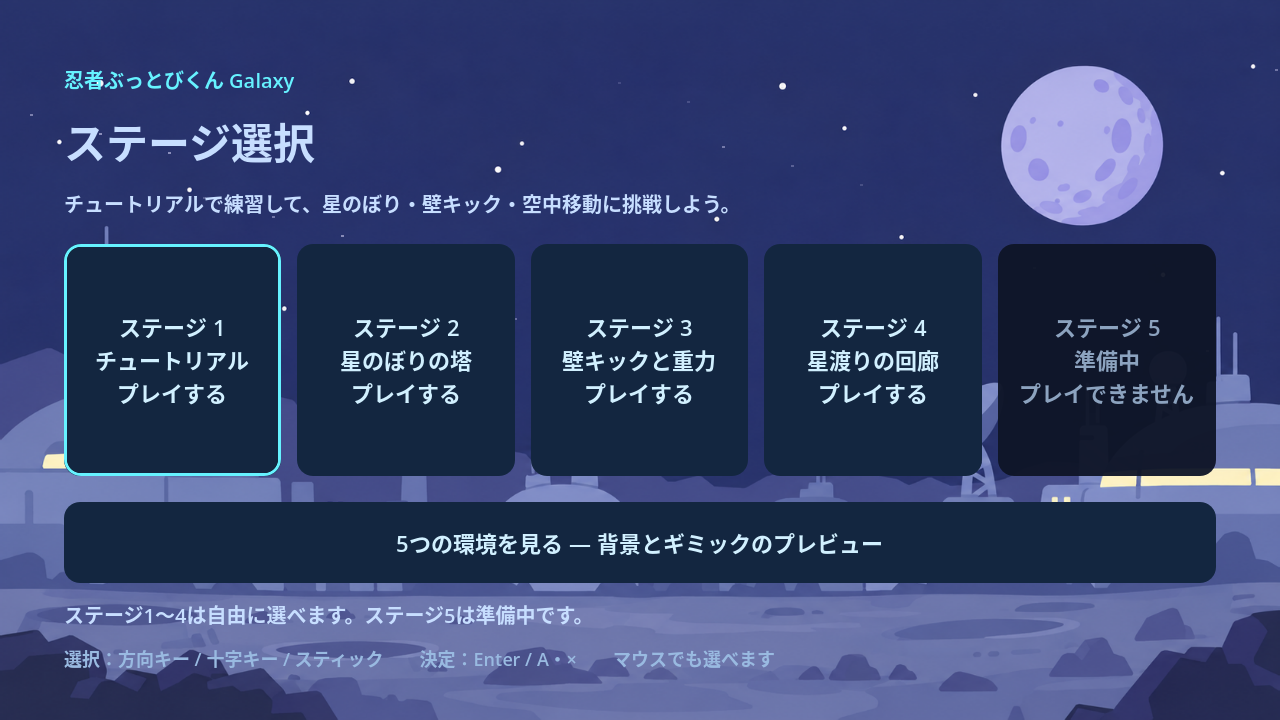
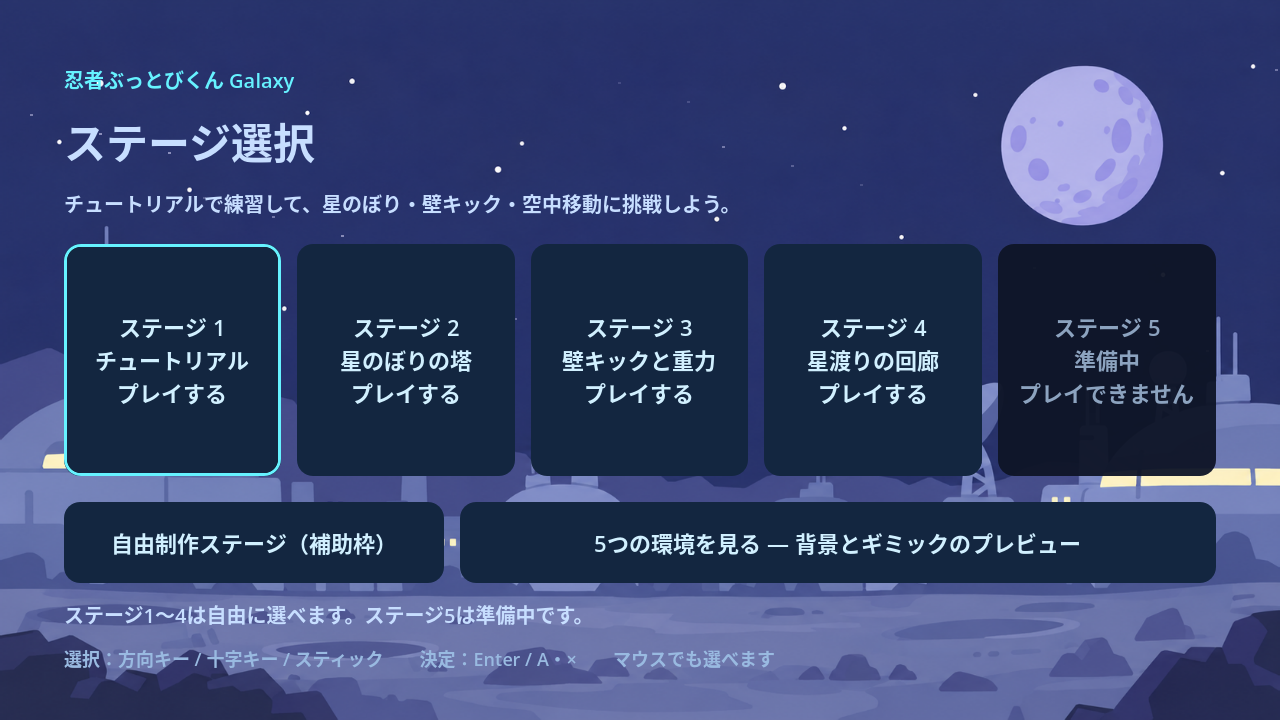
✨ 本編とは別枠の自由制作ステージを追加
- 既存アセットを使う1画面の編集用シーン、開始地点、到着台を用意
- クリア後の練習、やり直し、ギミックの復帰、選択画面への帰還に対応
- 選択画面に補助枠を追加し、各入力方式のフォーカス移動を整備
- 自由制作とステージ選択のテストを追加・拡充
- 用語定義、README、編集手順、スクリーンショットを追加・更新

テスト実行と実機での操作確認は未実施。

Changed region(s): [[0.0938, 0.6722, 0.8438, 0.825]]

diff --git a/README.md b/README.md
@@ -15,6 +15,8 @@
 
 F5で起動すると、ステージ1〜5が左から順に並んだ選択画面を表示します。「ステージ1：チュートリアル」「ステージ2：星のぼりの塔」「ステージ3：壁キックと重力」「ステージ4：星渡りの回廊」を自由に選べます。ステージ5は準備中です。「5つの環境を見る」から、全環境の背景・地形・ギミックを操作できるプレビューへ入れます。
 
+本編とは別の補助枠に「自由制作ステージ」を用意しています。既存のキャラクター・背景・ボタン・到着台を使う1画面の土台で、Godotで自由に配置を編集できます。編集箇所は [自由制作ステージ](docs/free-stage.md) を参照してください。
+
 クリック、方向キー＋Enter、ゲームパッドの十字キー／左スティック＋A／×で選べます。プレイ中はEsc／Back・Select、または画面右上の「ステージ選択へ戻る」で選択画面へ戻れます。再選択時は最初から始まり、進捗は保存しません。クリア後も、引き続き自由に練習できます。
 
 チュートリアル全17部屋は宇宙基地、ステージ2・3は生活圏のある惑星を舞台にしています。プレビューでは画面上部の選択欄、数字キー1〜5、ゲームパッドのL／Rで環境を切り替えられます。「背景の動き」、Mキー、ゲームパッドのY／△で背景を一時停止できます。移動・ジャンプ・運搬などは本編と同じ操作です。溶岩の波・泡・火の粉や瘴気は背景表現で、追加のダメージ判定はありません。
@@ -180,10 +182,11 @@ F6で実行する `main.tscn` のPhase 2配置：
 - `scenes/wind_area.tscn` / `scripts/wind_area.gd`：風の登録・解除と表示
 - `scenes/hud.tscn` / `scripts/hud.gd`：操作説明と状態表示（Playerのsignal/getterを使用）
 - `scenes/main.tscn`：各Sceneのデモ配置
-- `scenes/stage_select.tscn` / `scripts/stage_select.gd`：通常起動するステージ選択画面、ステージ1〜4の開始と環境プレビュー
+- `scenes/stage_select.tscn` / `scripts/stage_select.gd`：通常起動するステージ選択画面、ステージ1〜4・自由制作ステージの開始と環境プレビュー
 - `scenes/stage_2.tscn` / `scripts/stage_2.gd`：星のぼりの塔の全6区間、連続カメラ、復帰地点
 - `scenes/stage_3.tscn` / `scripts/stage_3.gd`：壁キックと重力反転を組み合わせた6部屋の本編ステージ
 - `scenes/stage_4.tscn` / `scripts/stage_4.gd`：星渡りの回廊の全6部屋
+- `scenes/free_stage.tscn` / `scripts/free_stage.gd`：本編とは別の自由制作ステージ、開始地点と到着台
 - `scenes/tutorial.tscn` / `scripts/tutorial.gd`：17部屋のチュートリアル、部屋切り替え、操作の解禁、復帰地点
 - `scenes/arrival_switch.tscn` / `scripts/arrival_switch.gd`：到着台、目標の吹き出し、ロックケース、解錠と押し込み
 
@@ -196,6 +199,7 @@ Godot_v4.7.2-stable_win64_console.exe --headless --fixed-fps 60 --path . --scrip
 Godot_v4.7.2-stable_win64_console.exe --headless --fixed-fps 60 --path . --script res://tests/stage_2_test.gd
 Godot_v4.7.2-stable_win64_console.exe --headless --fixed-fps 60 --path . --script res://tests/stage_3_test.gd
 Godot_v4.7.2-stable_win64_console.exe --headless --fixed-fps 60 --path . --script res://tests/stage_4_test.gd
+Godot_v4.7.2-stable_win64_console.exe --headless --fixed-fps 60 --path . --script res://tests/free_stage_test.gd
 Godot_v4.7.2-stable_win64_console.exe --headless --fixed-fps 60 --path . --script res://tests/ascent_backdrop_test.gd
 Godot_v4.7.2-stable_win64_console.exe --headless --fixed-fps 60 --path . --script res://tests/environment_art_test.gd
 Godot_v4.7.2-stable_win64_console.exe --headless --path . --script res://tests/base_system_test.gd
@@ -216,6 +220,8 @@ Godot_v4.7.2-stable_win64_console.exe --headless --fixed-fps 60 --path . --scrip
 `STAGE_2_TEST_OK` は、実入力による全24段の登頂、復帰地点の更新、落下・やり直し、頂上の到着台、カメラ、お助けメニュー、再入場を確認します。`ASCENT_BACKDROP_TEST_OK` は背景の高度連動、地表が視界から離れること、区間境界の連続性、降下と復帰時の景色、既存の地形表現を確認します。
 
 `STAGE_4_TEST_OK` は、実入力による全6部屋の通過、クリスタル・反転ゲートの連携、部屋移動、落下・やり直し、メニュー、再入場を確認します。
+
+`FREE_STAGE_TEST_OK` は、自由制作の土台から実入力で到着台へ進み、クリア後の練習・やり直し・配置したギミックの復帰・選択画面への帰還・再入場を確認します。選択画面からのマウス・キーボード・ゲームパッド操作は `STAGE_SELECT_TEST_OK` に含みます。
 
 `STAGE_3_TEST_OK` は、ダッシュなしの実入力で全6部屋を攻略し、壁キック・通常重力と反転中の連携、移動ゲート、到着台、部屋移動と逆戻り、落下・やり直し、クリア後の自由練習、再選択時の進捗初期化を確認します。
 

diff --git a/docs/free-stage.md b/docs/free-stage.md
@@ -1,0 +1,31 @@
+# 自由制作ステージ
+
+作者が自由に作るための補助枠。本編のステージ1〜5とは別に、選択画面の「自由制作ステージ（補助枠）」から入る。キャラクター、背景、地形、ボタン、到着台は既存のデザインを引き継ぐ。
+
+初期状態は1280×720の1画面。平らな床、左右の境界、開始地点、右側の到着台だけを置く。壁アクションとダッシュは最初から使える。到着台にジャンプして乗るとクリアを表示し、そのまま練習できる。
+
+![自由制作ステージの初期画面](screenshots/free-stage.png)
+
+## 編集する場所
+
+Godotで `scenes/free_stage.tscn` を開き、配置を編集する。F6でこのステージだけを実行できる。F5では選択画面から開始する。
+
+| ノード | 編集する内容 |
+| --- | --- |
+| `Terrain` | 床や足場、壁。`Floor` の当たり判定と `Visual` の輪郭を揃えて編集する |
+| `Objects` | 既存のばね、風、重力ゲート、クリスタル、運搬物などのシーンを追加する |
+| `Spawn` | 開始・やり直しで戻る地点。プレイヤーが床や壁にめり込まない場所に置く |
+| `Goal` | 到着台。原点を床の表面に合わせる |
+| `Camera2D` | 固定カメラ。初期状態では画面中央を表示する |
+
+背景を変える場合はルートの `metadata/environment_theme` を0〜4に変更する。0は宇宙基地、1は生活圏、2は未開発、3は溶岩、4は邪悪なオーラ。背景と地形の絵柄は既存の仕組みで揃う。
+
+R / Start、または右上の「やり直す」で `Spawn` に戻る。重力、ダッシュ、スタミナ、運搬物と、`Objects` に置いたクリスタル・移動ゲートをリセットする。画面の上下へ大きく外れた場合も開始地点に戻る。クリア表示はそのプレイ中だけ保ち、選択画面から入り直すと初期化する。Esc / Back・Select、または右上のボタンで選択画面へ戻れる。
+
+## 確認
+
+```powershell
+Godot_v4.7.2-stable_win64_console.exe --headless --fixed-fps 60 --path . --script res://tests/free_stage_test.gd
+```
+
+成功時は `FREE_STAGE_TEST_OK` と終了コード0。初期の配置を実入力だけでクリアし、やり直し・ギミックのリセット・再入場を確認する。コースを編集した後は、テストの攻略入力も配置に合わせて調整する。

diff --git a/CONTEXT.md b/CONTEXT.md
@@ -157,6 +157,9 @@ _Avoid_: 逆風
 **本編ステージ**:
 基本操作を学ぶチュートリアルに続き、操作やギミックの組み合わせを使って攻略するステージ。
 
+**自由制作ステージ**:
+作者が自由に配置や課題を作る、本編の番号に含めない補助枠のステージ。
+
 **上昇コース**:
 左右の壁や足場、空中のギミックをつなぎ、ふもとから頂上を目指す縦方向のコース。
 
